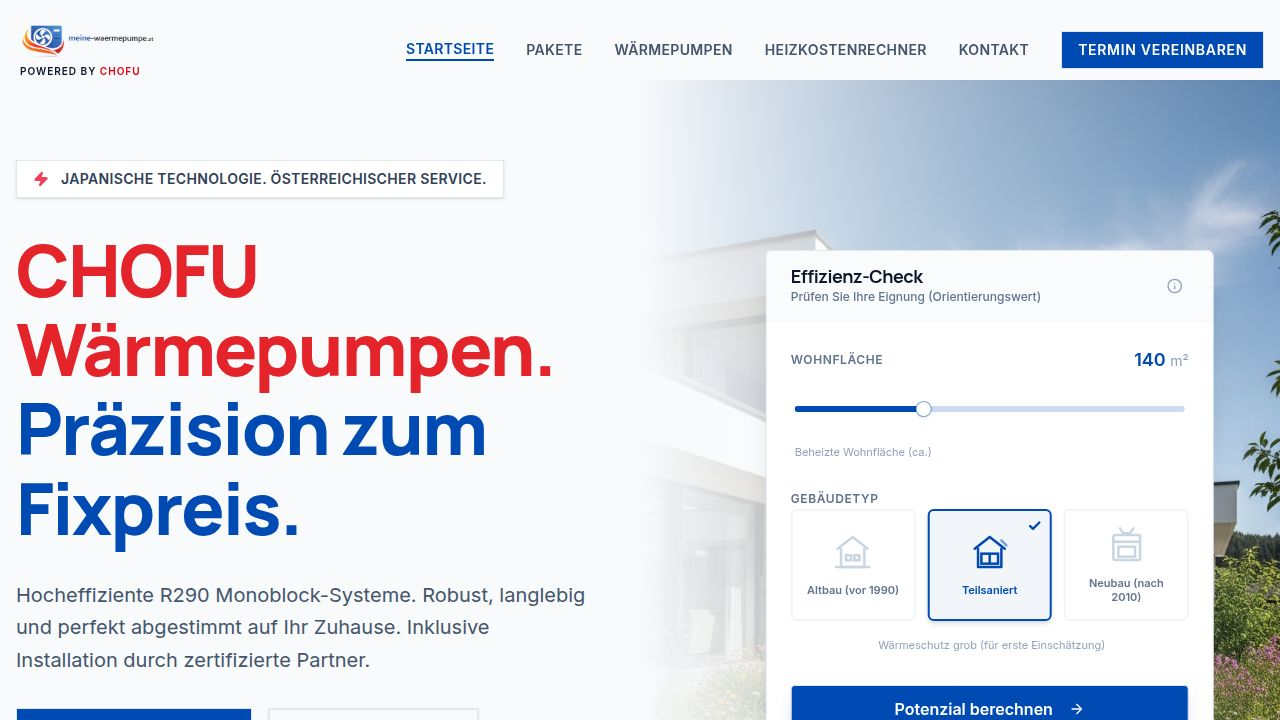
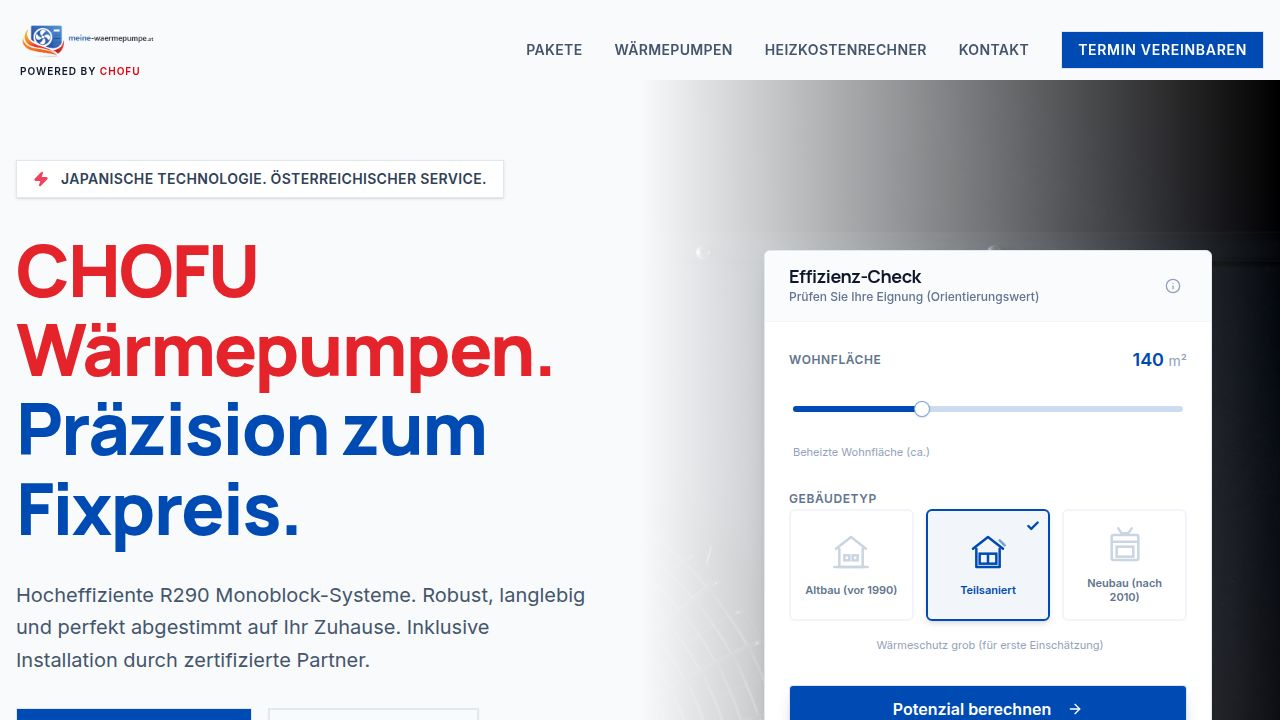
Update hero image to a new provided visual
Replaces the existing hero image on the homepage with a new, close-up image.

Replit-Commit-Author: Agent
Replit-Commit-Session-Id: 50244e67-534e-4d85-b2a5-e19be5da4444
Replit-Commit-Checkpoint-Type: full_checkpoint
Replit-Commit-Event-Id: f4f642ac-c80b-4caf-8b25-ba11fbbd31a3
Replit-Commit-Screenshot-Url: https://storage.googleapis.com/screenshot-production-us-central1/d5bef52e-3ff3-45f0-8082-22a028fb348c/50244e67-534e-4d85-b2a5-e19be5da4444/xoVoQ8r
Replit-Helium-Checkpoint-Created: true

diff --git a/client/src/pages/home.tsx b/client/src/pages/home.tsx
@@ -10,7 +10,7 @@ import { Select, SelectContent, SelectItem, SelectTrigger, SelectValue } from "@
 import { Tabs, TabsContent, TabsList, TabsTrigger } from "@/components/ui/tabs";
 import { Check, ArrowRight, Zap, ShieldCheck, Euro, Coins, Info, Home as HomeIcon, Building, Loader2, Calculator } from "lucide-react";
 import { BUNDESLAENDER, PACKAGES, PARTNERS, SUBSIDIES } from "@/lib/constants";
-import heroImage from "@assets/generated_images/modern_austrian_house_with_heat_pump.png";
+import heroImage from "@assets/R290_Premium_Black_Closeup_image_(2)_1768489993632.jpg";
 import { motion } from "framer-motion";
 import ehpaLabel from "@assets/image_1767188918778.png";
 import { ChofuHomepageTeaser } from "@/components/brand/ChofuHomepageTeaser";
